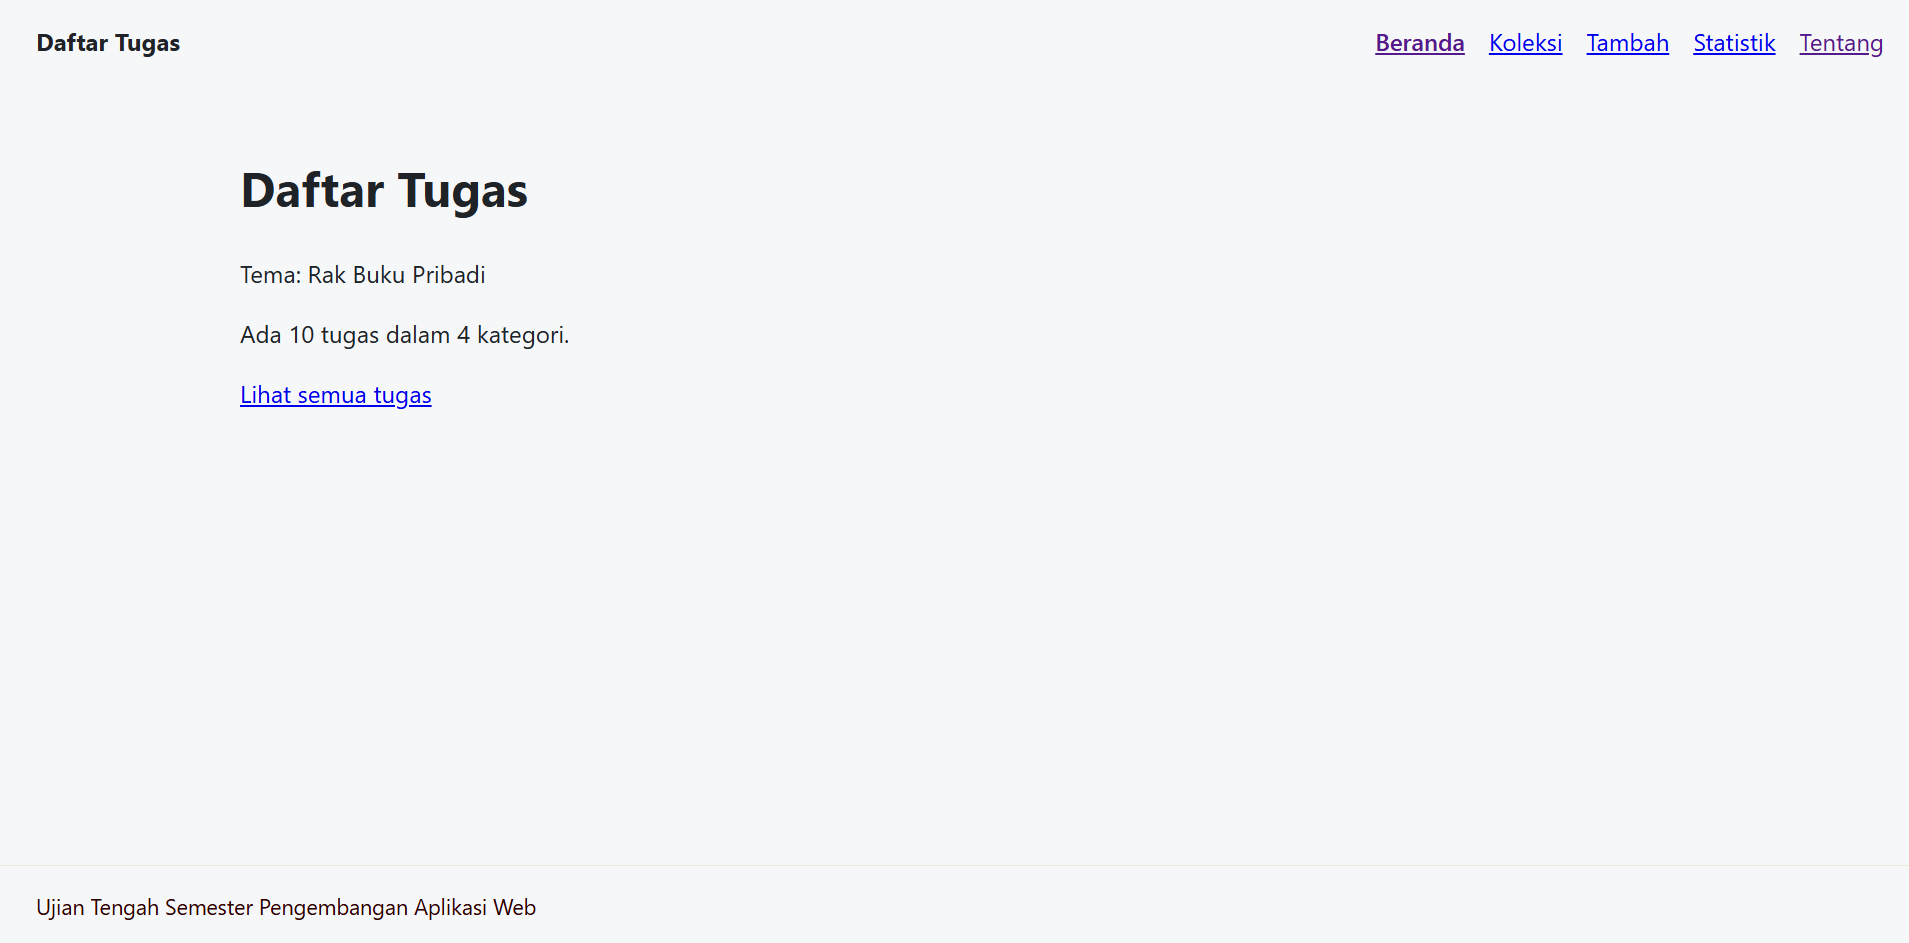
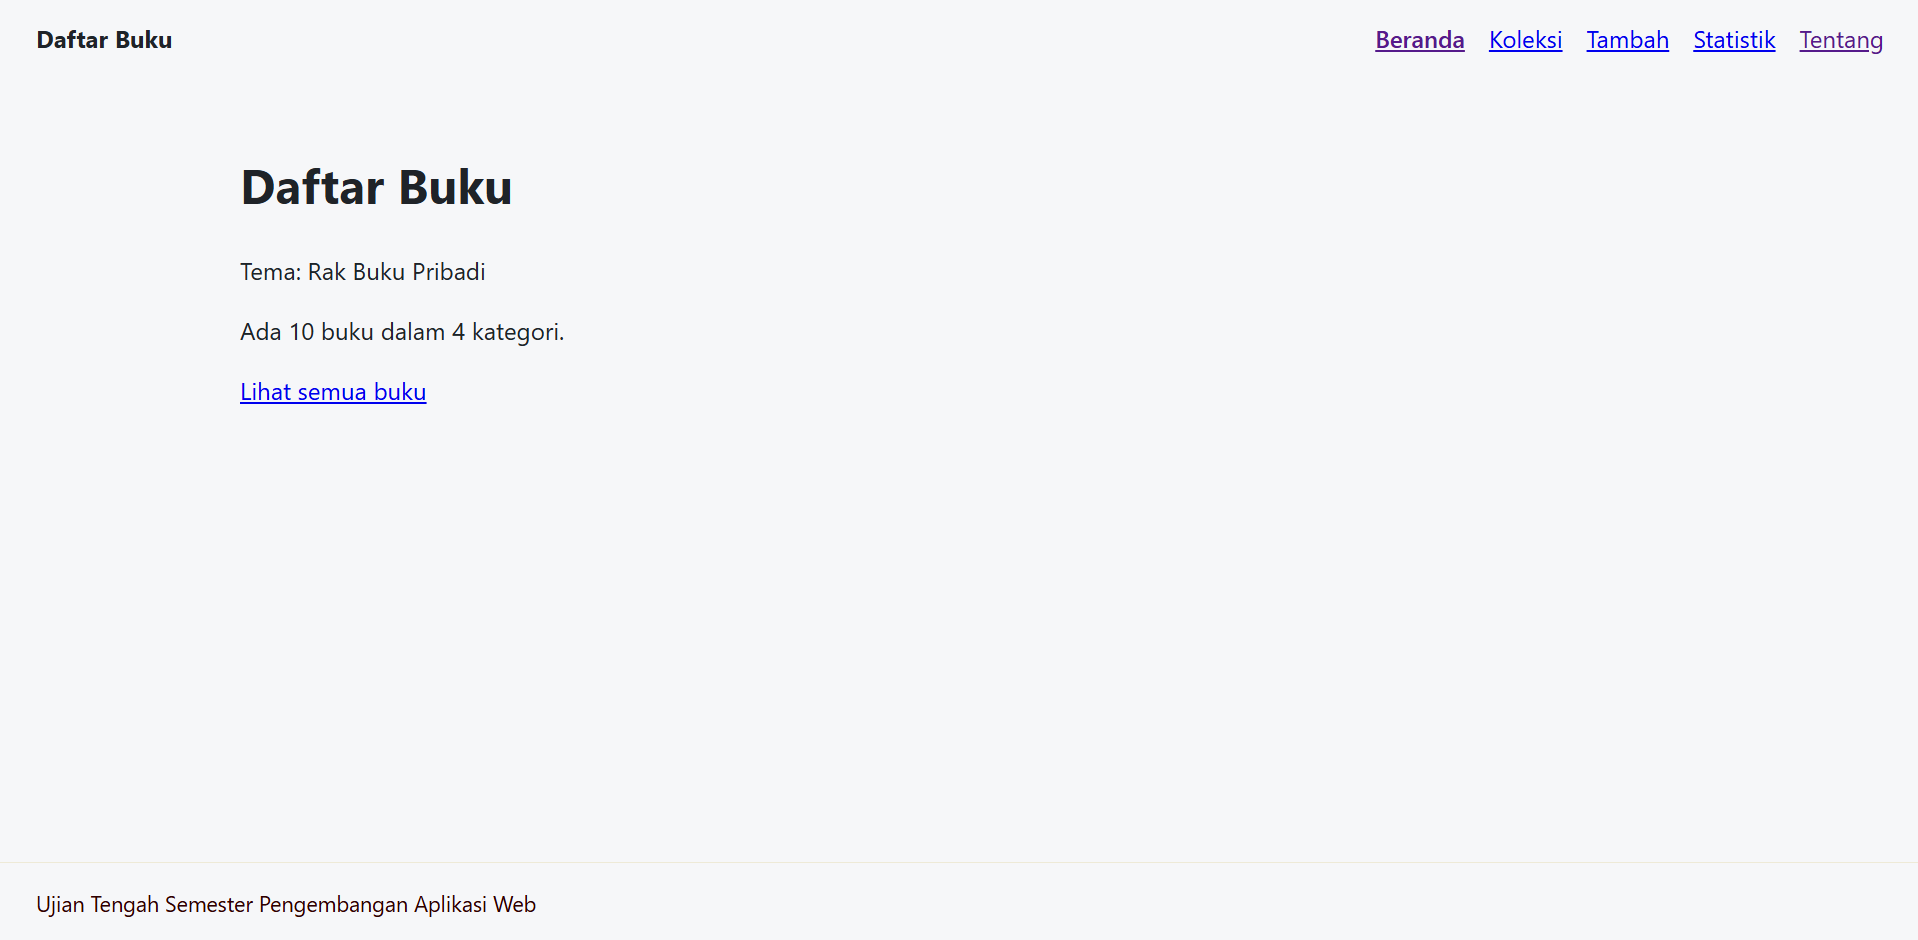
update path image

diff --git a/README.md b/README.md
@@ -10,7 +10,7 @@ Tema: Rak Buku Pribadi
 
 Deployment: https://01-123140180-megazayyani.github.io/uts-paw/
 
-![Tangkapan layar beranda](app\src\docs\beranda.png)
+![Tangkapan layar beranda](app/src/docs/beranda.png)
 
 ## Fitur
 
